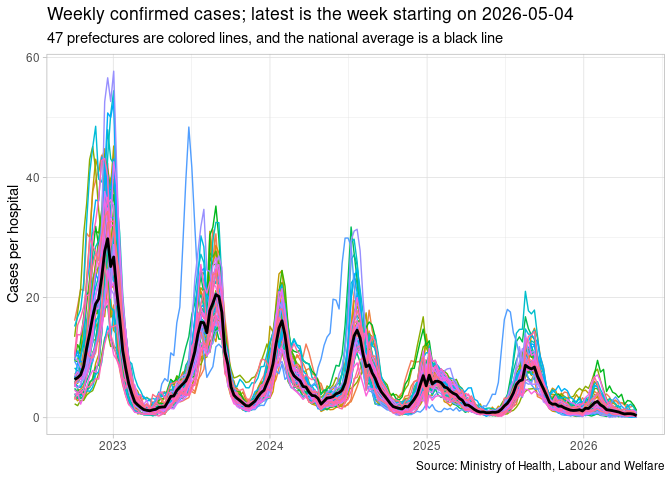
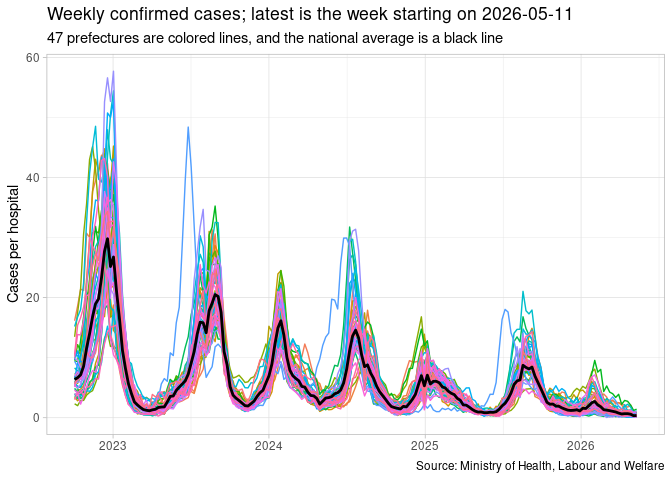
update on May 22, 2026

diff --git a/Japan_wk.md b/Japan_wk.md
@@ -2,7 +2,7 @@
 Mitsuo Shiota
 2023-05-20
 
-Updated: 2026-05-15
+Updated: 2026-05-22
 
 ## Covid-19 was reclassified as tier 5 on May 8, 2023 in Japan
 